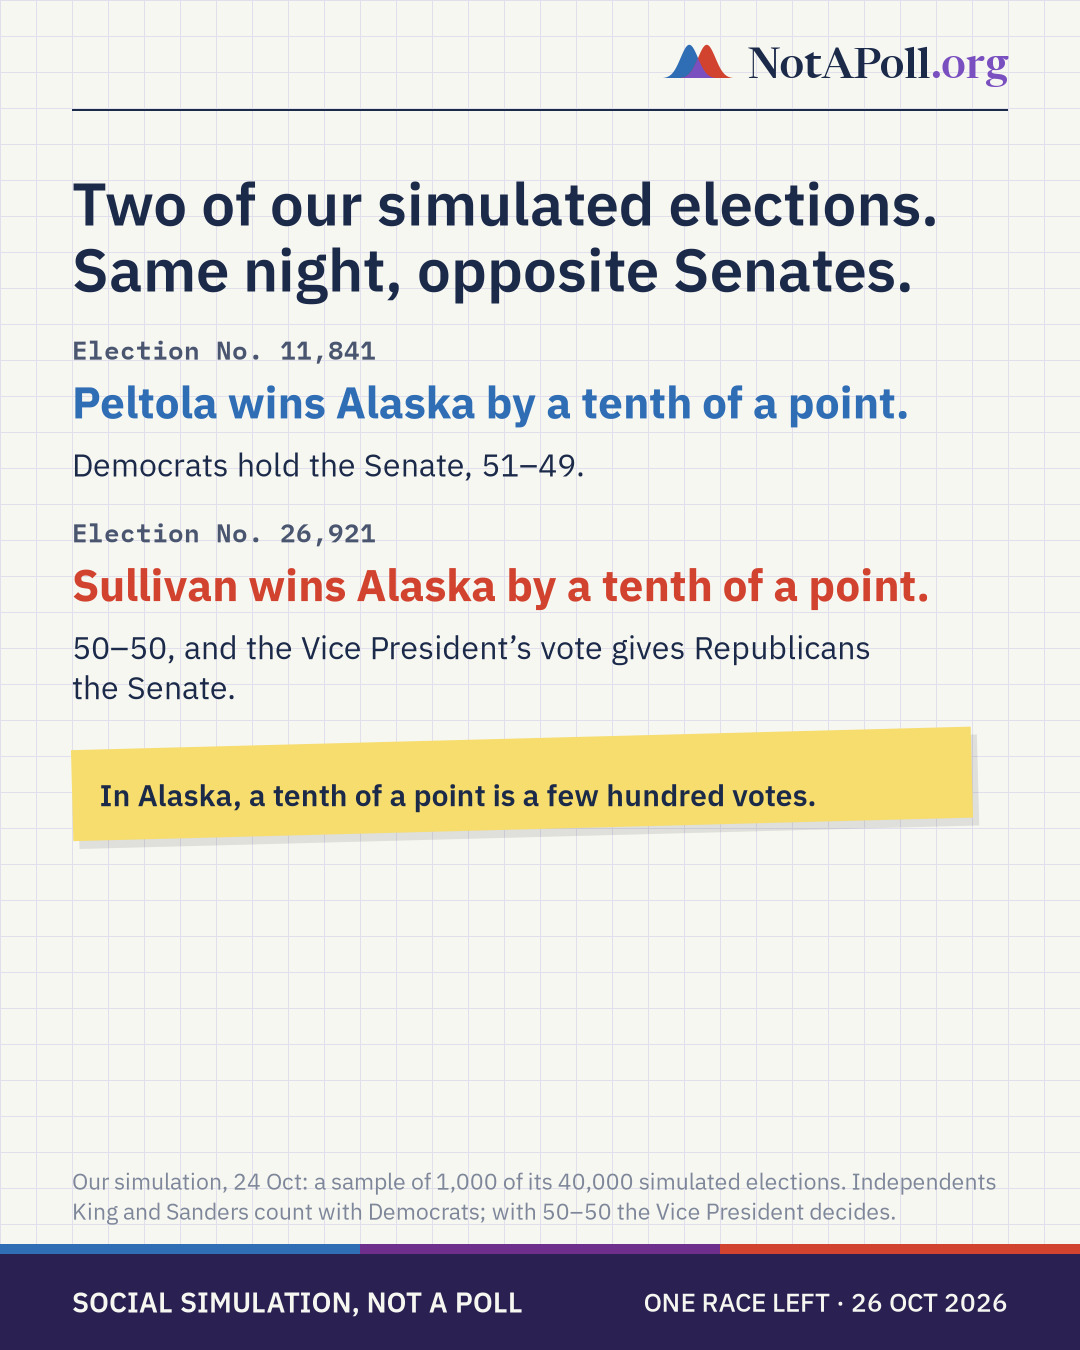
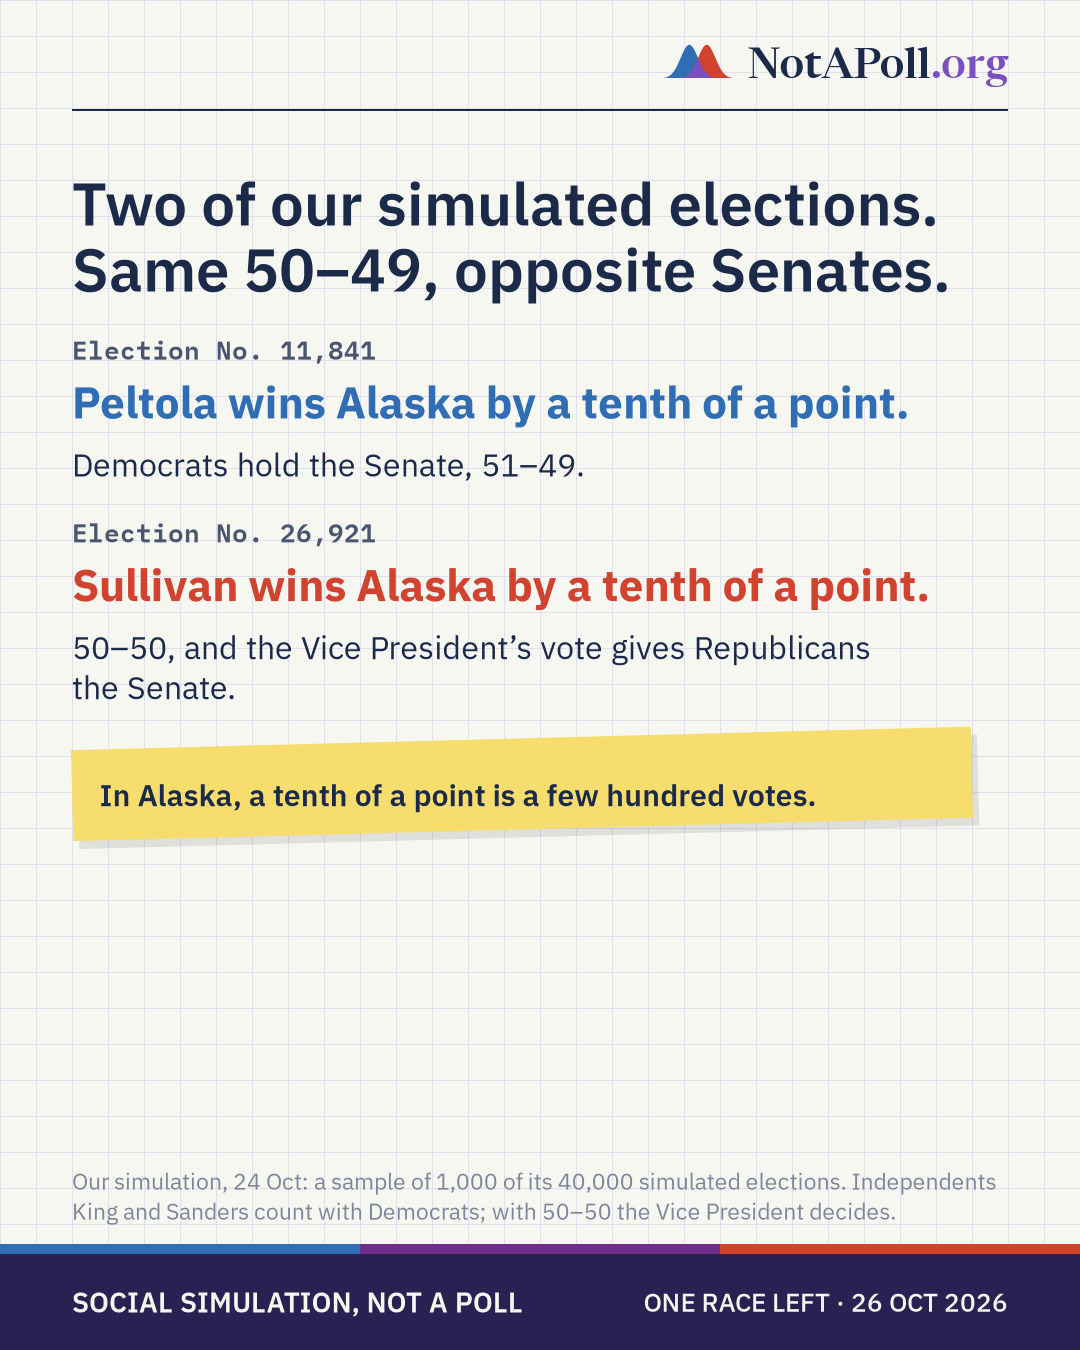
One race left: 'same 50-49', not 'same night' (the two simulated elections share the seat count, not every result)

Changed region(s): [[0.2139, 0.1867, 0.8861, 0.2489]]

diff --git a/simlab/publish/onerace.py b/simlab/publish/onerace.py
@@ -86,7 +86,7 @@ def build(data_day: str, post_day: str, race: str, data: Path, reel: bool = Fals
     a.source(src)
 
     b = Slide(d, "", LAB, series=SERIES)
-    b.headline("Two of our simulated elections. Same night, opposite Senates.", px=60)
+    b.headline("Two of our simulated elections. Same 50–49, opposite Senates.", px=60)
     b.y += 10
     for side, who, result, col in (("D", dem, "Democrats hold the Senate, 51–49.", LAB.dem),
                                    ("R", rep, "50–50, and the Vice President's vote gives Republicans the Senate.",
@@ -118,8 +118,8 @@ def build(data_day: str, post_day: str, race: str, data: Path, reel: bool = Fals
         f"Election night, simulated. In one of our 40,000 simulated elections, No. {no['D']}, every Senate race is "
         f"called but one. Democrats have 50 seats, Republicans 49. Whoever wins {state} controls the Senate. "
         f"{dem} wins it by {tenth}.\n\n"
-        f"In another, No. {no['R']}, the same night ends the other way: {rep} wins {state} by {tenth}, the Senate "
-        f"is 50–50, and the Vice President's vote gives Republicans control.\n\n"
+        f"In another, No. {no['R']}, the night reaches the same 50–49 with only {state} left, and ends the other way: "
+        f"{rep} wins it by {tenth}, the Senate is 50–50, and the Vice President's vote gives Republicans control.\n\n"
         f"It isn't a fluke. In {per100} of every 100 of our simulated elections, control of the Senate comes down to "
         f"a single race decided by less than a point, and {state} is the race that decides it most often.\n\n"
         f"These are simulations, not predictions: each one is a possible election night, played out from voter "
